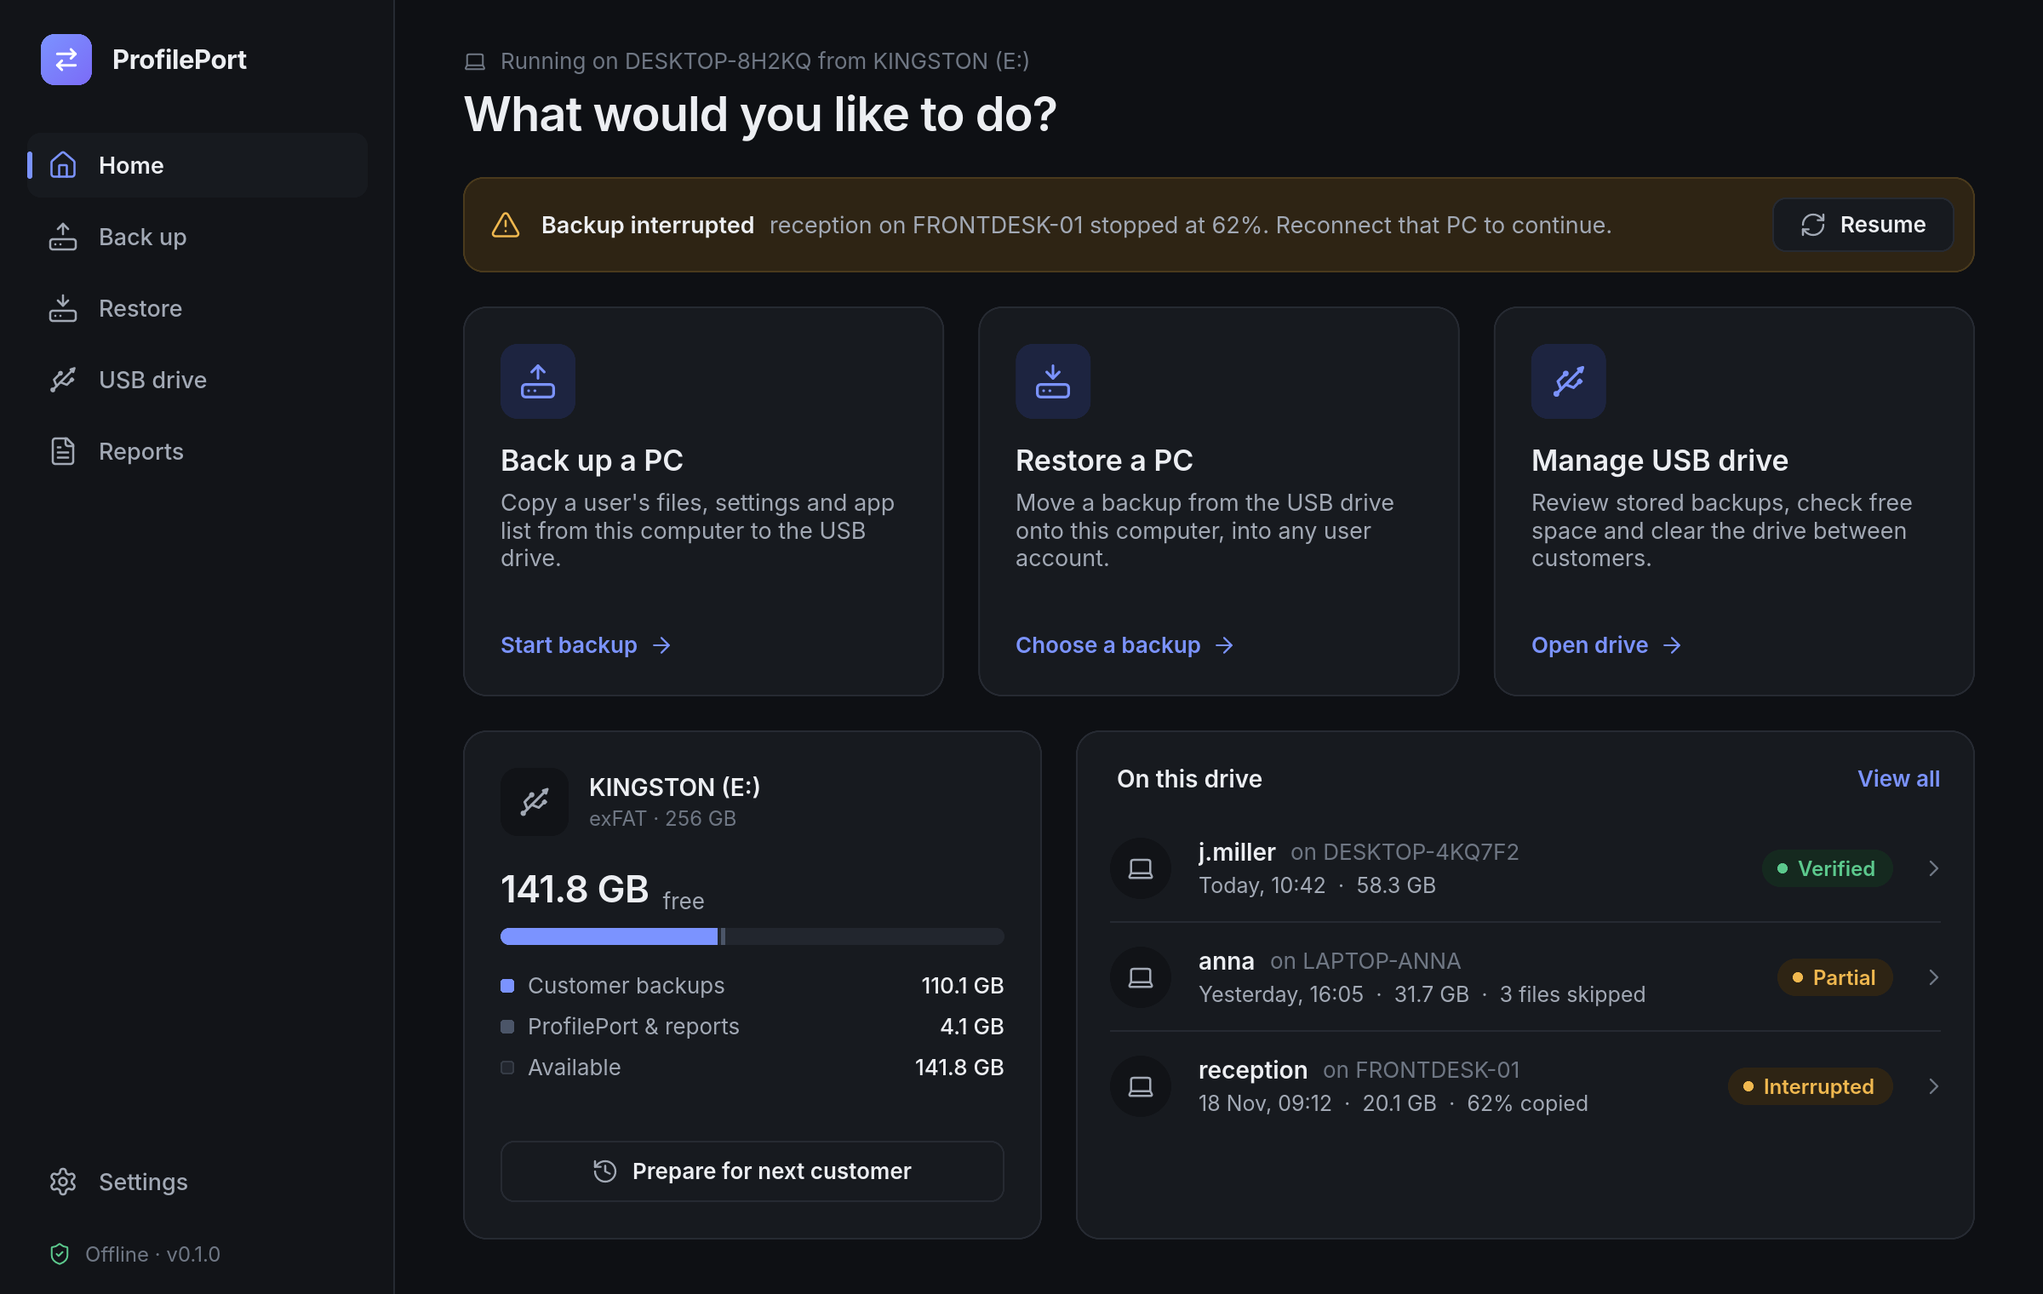
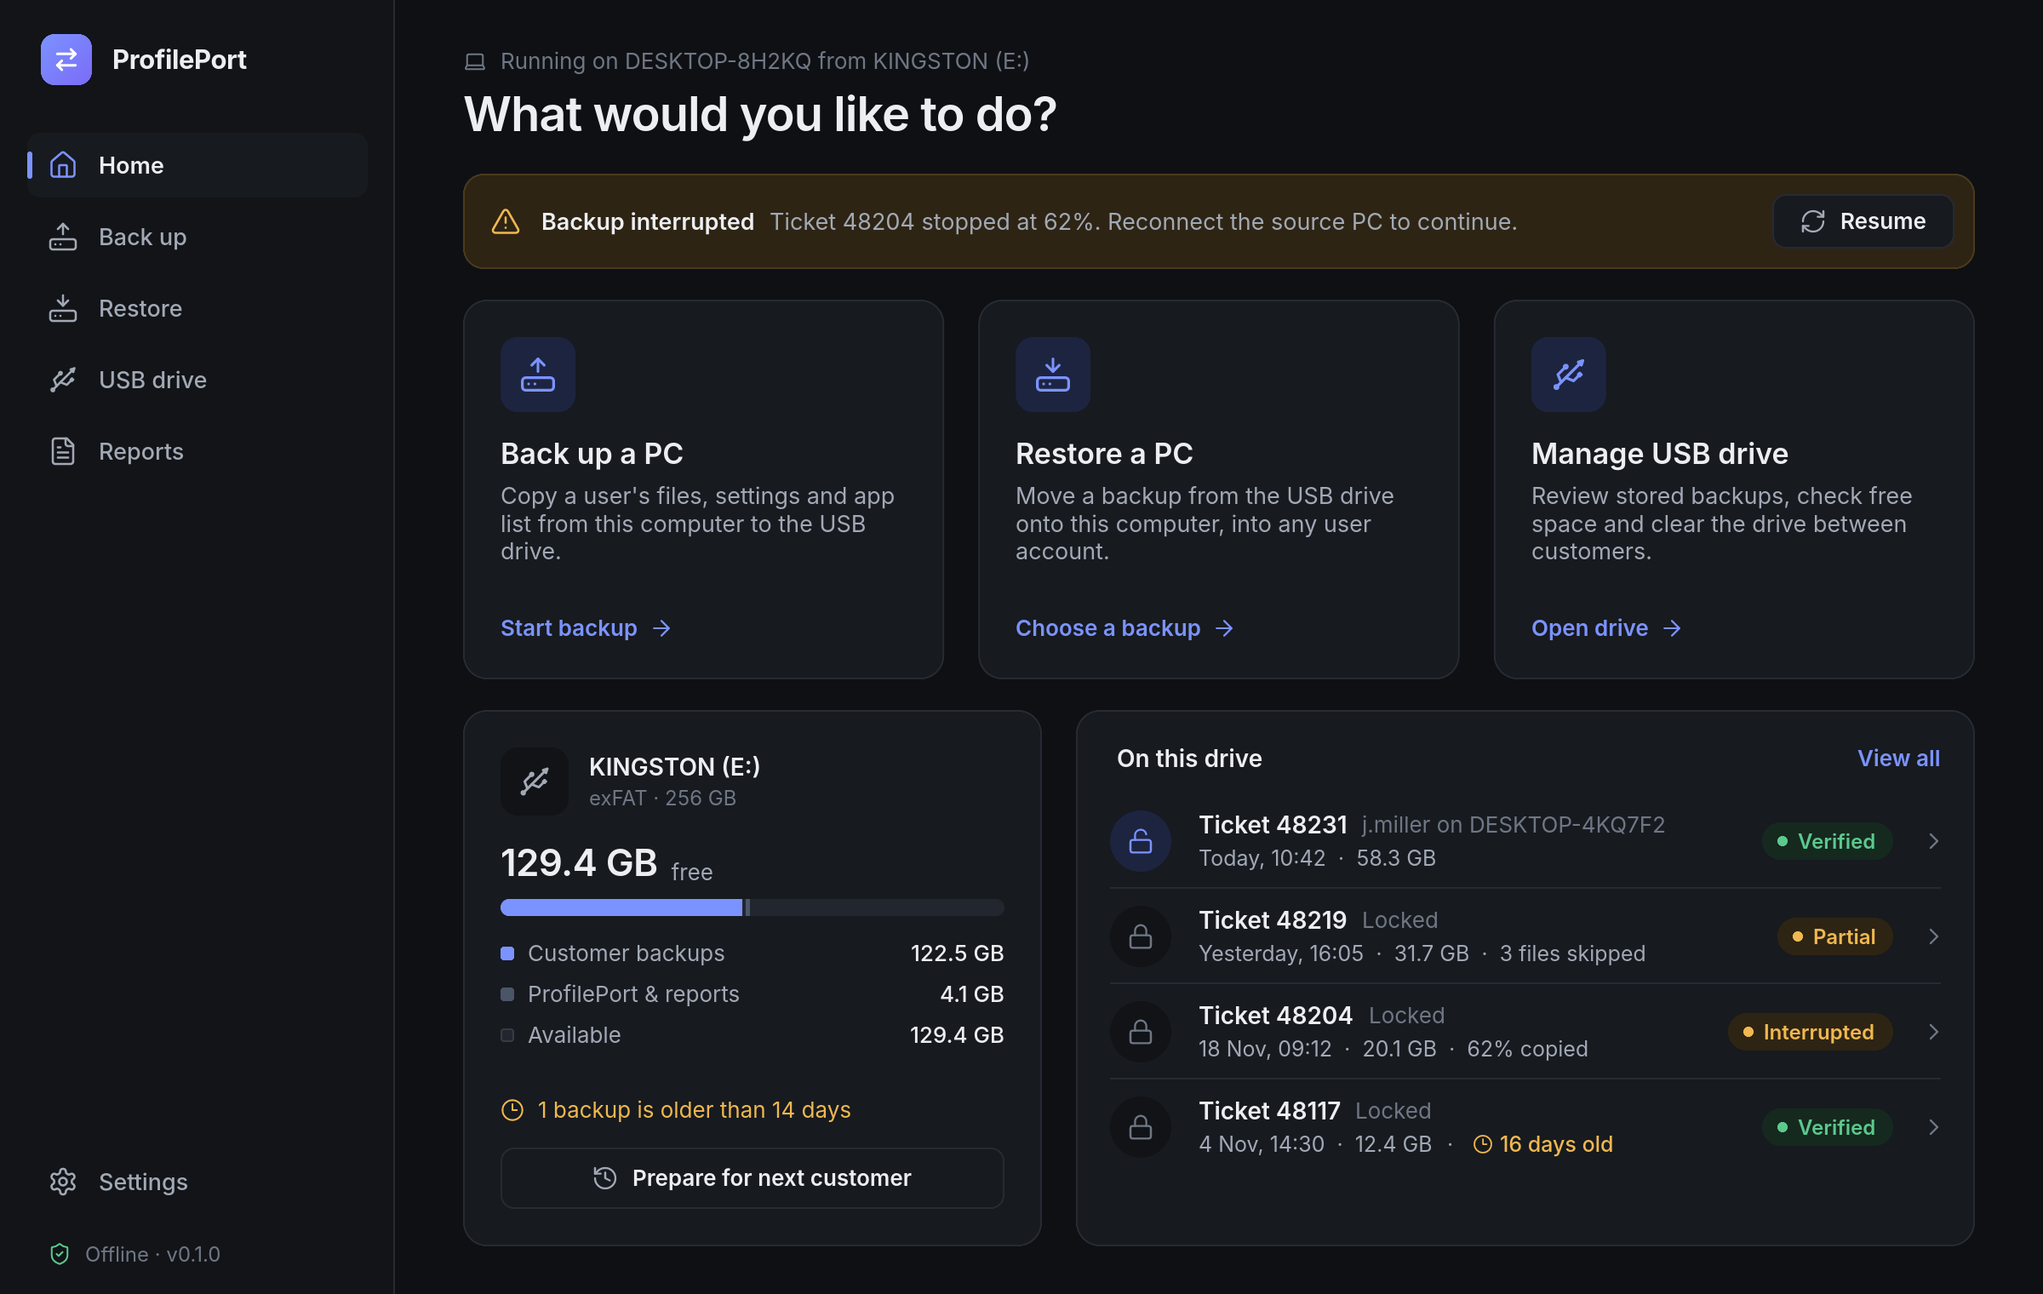
Accept ADRs; redesign dashboard backups list around ticket numbers
- ADR 0002 accepted: transfer code on a paper device tag (not the ticket
  system), ~50-bit grouped code with check characters, type-back
  confirmation, recovery-job safeguard, no master key in v1.
- ADRs 0003 and 0004 accepted; 0005 accepted with VSS deferred to Phase 2
  and Phase 1 avoiding locks via a separate admin sign-in.
- ADR 0001 records the Slint royalty-free licence choice.
- Dashboard: backups shown by ticket number with locked/unlocked state;
  names appear only for unlocked packages; stale-package warnings on rows
  and the drive card.

Claude-Session: https://claude.ai/code/session_01Jb7Vzuqr7JesLgjHWPisgZ

diff --git a/apps/desktop/src/main.rs b/apps/desktop/src/main.rs
@@ -20,44 +20,49 @@ fn main() -> Result<(), slint::PlatformError> {
         letter: "E:".into(),
         filesystem: "exFAT".into(),
         total: "256 GB".into(),
-        free: "141.8 GB".into(),
-        backups_fraction: 0.43,
+        free: "129.4 GB".into(),
+        backups_fraction: 0.479,
         app_fraction: 0.016,
-        backups_size: "110.1 GB".into(),
+        backups_size: "122.5 GB".into(),
         app_size: "4.1 GB".into(),
+        stale_count: 1,
+        stale_threshold: "14 days".into(),
     });
 
+    // Only the ticket's own backup is unlocked: the technician entered its
+    // transfer code. Every other package shows plaintext metadata only.
+    let backup = |ticket: &str, created: &str, size: &str, status, detail: &str| BackupEntry {
+        ticket: ticket.into(),
+        unlocked: false,
+        profile: "".into(),
+        computer: "".into(),
+        created: created.into(),
+        size: size.into(),
+        status,
+        detail: detail.into(),
+        age: "".into(),
+        stale: false,
+    };
     let backups = vec![
         BackupEntry {
+            unlocked: true,
             profile: "j.miller".into(),
             computer: "DESKTOP-4KQ7F2".into(),
-            created: "Today, 10:42".into(),
-            size: "58.3 GB".into(),
-            status: BackupStatus::Verified,
-            detail: "".into(),
+            ..backup("48231", "Today, 10:42", "58.3 GB", BackupStatus::Verified, "")
         },
+        backup("48219", "Yesterday, 16:05", "31.7 GB", BackupStatus::Partial, "3 files skipped"),
+        backup("48204", "18 Nov, 09:12", "20.1 GB", BackupStatus::Interrupted, "62% copied"),
         BackupEntry {
-            profile: "anna".into(),
-            computer: "LAPTOP-ANNA".into(),
-            created: "Yesterday, 16:05".into(),
-            size: "31.7 GB".into(),
-            status: BackupStatus::Partial,
-            detail: "3 files skipped".into(),
-        },
-        BackupEntry {
-            profile: "reception".into(),
-            computer: "FRONTDESK-01".into(),
-            created: "18 Nov, 09:12".into(),
-            size: "20.1 GB".into(),
-            status: BackupStatus::Interrupted,
-            detail: "62% copied".into(),
+            age: "16 days old".into(),
+            stale: true,
+            ..backup("48117", "4 Nov, 14:30", "12.4 GB", BackupStatus::Verified, "")
         },
     ];
     app.set_backups(Rc::new(slint::VecModel::from(backups)).into());
 
     app.set_show_notice(true);
     app.set_notice_title("Backup interrupted".into());
-    app.set_notice_message("reception on FRONTDESK-01 stopped at 62%. Reconnect that PC to continue.".into());
+    app.set_notice_message("Ticket 48204 stopped at 62%. Reconnect the source PC to continue.".into());
 
     app.window().set_size(slint::LogicalSize::new(1200.0, 760.0));
     app.run()

diff --git a/docs/decisions/0002-package-format.md b/docs/decisions/0002-package-format.md
@@ -1,6 +1,6 @@
 # 0002 — Transfer package format
 
-**Status:** Proposed — this is the most consequential open decision.
+**Status:** Accepted
 
 ## Context
 
@@ -91,21 +91,53 @@ and **specific to the job** — a store-wide PIN protects a lost drive but
 cannot erase past customers, because the PIN never changes and any surviving
 wrapped key still opens with it.
 
-**Proposed:**
+**Decision:**
 
 - Each package has a random key, wrapped (Argon2id → key-encryption key) with
-  a short **transfer code** generated at the end of export.
-- The technician writes the code on the **job ticket / work order**. It is
-  never written to the drive. Restore asks for it.
-- When the job is closed and the code is no longer retained, that customer's
-  data is unreadable even if deleted blocks are recovered. The erasure
-  guarantee therefore depends on the store's **ticket-retention policy** for
-  codes. Document this; don't hide it.
-- **Optional store master key** (kept on the store's workstation, not the
-  drive) as a second wrap, for jobs where a redo is impossible — chiefly
-  recovery from a failing drive. Off by default; enabling it means past
-  packages are only as erased as the master key is protected.
-- A lost code otherwise just means redoing the backup from the source PC.
+  a **transfer code** generated at the end of export. The code is never
+  written to the drive. Restore asks for it.
+- The technician writes the code on a **paper device tag** that stays with
+  the customer's devices (taped to the old PC or its bag), **not in the
+  ticket system**. Ticket systems retain records for years and are backed
+  up; a paper tag is discarded when the devices go back to the customer,
+  which ends the code's life without depending on any retention policy. The
+  export screen says so explicitly: "Write this on the device tag. Don't
+  enter it in the ticket system."
+- Once the tag is discarded, that customer's data is unreadable even if
+  deleted blocks are recovered from flash.
+- **No store master key in v1.** It would be a single secret that, if it
+  leaked, exposed every past customer, and it would weaken the erasure
+  promise for all jobs to protect a few. Revisit only if lost codes prove to
+  be a real problem in practice.
+- A lost code means redoing the backup from the source PC, which is usually
+  still on the bench.
+
+### Transfer code format
+
+A stolen drive can be attacked offline, so the code must resist guessing
+even though Argon2id slows each attempt. Six digits (~20 bits) is too weak.
+
+- **~50 bits of entropy:** 10 random characters from Crockford base32
+  (no 0/O, 1/I/L ambiguity), plus 2 check characters, shown in groups of
+  four: `7KQ2-M9XD-4PWH`.
+- Case-insensitive; hyphens and spaces ignored on entry.
+- The check characters catch typos before decryption is attempted, so a
+  mistyped code gives "That code isn't valid — check the device tag", not a
+  confusing decryption failure.
+- Argon2id parameters stored in `header.bin` so they can be raised in later
+  format versions.
+
+### Guarding against a lost code
+
+The real risk is a mistranscribed code while the source is about to be
+released — worst for recovery from a failing drive, where a second backup
+may be impossible. So:
+
+- Before the export screen can be closed, the technician **types the code
+  back once**. A mismatch shows the code again.
+- For packages marked as **recovery jobs**, ProfilePort never offers to
+  delete the package until the restore is verified **and** the technician
+  confirms the customer has checked their data.
 
 ## Plaintext labels
 
@@ -113,7 +145,7 @@ The encrypted manifest hides names, so the dashboard cannot show
 "j.miller on DESKTOP-4KQ7F2" without the code. Storing that in plaintext
 would put customer-identifying data on the drive.
 
-**Proposed:** packages carry a plaintext **ticket number** (entered at
+**Decision:** packages carry a plaintext **ticket number** (entered at
 export), date, size and status only. Profile and computer names appear only
 after the code is entered. Ticket numbers are how technicians already match
 jobs, and they identify no one without the store's own system.
@@ -121,16 +153,18 @@ jobs, and they identify no one without the store's own system.
 ## Lifecycle
 
 - After a **verified** restore, the final step asks: "Delete this backup from
-  the drive now?" (a prompt, not automatic deletion).
+  the drive now?" (a prompt, not automatic deletion). Recovery jobs are the
+  exception described above.
 - Packages older than a configurable age (e.g. 14 days) are flagged on the
   dashboard for cleanup.
 - "Prepare for next customer" deletes selected packages. With per-job codes
-  this honestly makes their data inaccessible once the codes are discarded.
+  this honestly makes their data inaccessible once the device tags are
+  discarded.
 
-## Decision (proposed)
+## Decision
 
-Option B with per-package keys wrapped by a transfer code recorded on the
-job ticket, from Phase 1.
+Option B with per-package keys wrapped by a transfer code recorded on a paper
+device tag, from Phase 1. No master key in v1.
 
 ## Consequences
 
@@ -140,8 +174,9 @@ job ticket, from Phase 1.
   [0003](0003-copy-engine.md).
 - The format must be versioned and documented (`docs/package-format.md`)
   before the first release, with a stand-alone extractor.
-- A lost transfer code means redoing the backup (or using the optional master
-  key). The UI must make this unmistakable before the source PC is released.
-- The dashboard's backup list is keyed by ticket number, not by user or PC
-  name (the current prototype shows names and needs updating).
-- Real-world erasure depends on the store's ticket-retention policy for codes.
+- A lost transfer code means redoing the backup. The type-back check and the
+  recovery-job safeguard keep this rare.
+- The dashboard's backup list is keyed by ticket number; profile and computer
+  names appear only for packages unlocked in the current session.
+- Staff must actually keep codes out of the ticket system. This is a store
+  procedure, and the app reminds them at the moment the code is shown.

diff --git a/docs/design/ui.md b/docs/design/ui.md
@@ -19,7 +19,12 @@ visual system and how to work on it.
    for meaning (green = verified, amber = needs attention, red = failure).
 4. **Honest wording.** "Partial — 3 files skipped", not "Done". "Verified"
    only when content was hashed and compared.
-5. **Dense enough for professionals.** Generous whitespace, but a technician
+5. **Nothing customer-identifying without the code.** The drive is shared
+   across customers ([ADR 0002](../decisions/0002-package-format.md)), so
+   lists show only plaintext package metadata — ticket number, date, size,
+   status, age. Profile and computer names appear only for packages
+   unlocked with their transfer code in the current session.
+6. **Dense enough for professionals.** Generous whitespace, but a technician
    should see drive state and recent backups without scrolling.
 
 ## Tokens
@@ -88,9 +93,12 @@ as final. Font rasterisation and DPI behaviour differ there.
 
 ## Next screens
 
-1. Profile discovery (pick a Windows installation and user).
+1. Profile discovery (pick a Windows installation and user; warn if that
+   user is signed in — see ADR 0005).
 2. Data selection with size estimates and exclusions.
 3. Transfer progress (overall + current file, speed, ETA, warnings).
-4. Verification summary (verified / partial / failed, with drill-down).
-5. Restore mapping (source folders → destination user, conflict preview).
-6. USB drive management and "Prepare for next customer".
+4. Export complete: transfer code display, "write it on the device tag",
+   and type-back confirmation (ADR 0002).
+5. Verification summary (verified / partial / failed, with drill-down).
+6. Unlock a package (enter transfer code) and restore mapping (source folders → destination user, conflict preview).
+7. USB drive management and "Prepare for next customer".

diff --git a/docs/decisions/0005-locked-files-and-registry.md b/docs/decisions/0005-locked-files-and-registry.md
@@ -1,6 +1,6 @@
-# 0005 — Locked files via VSS; user registry archived, not merged
+# 0005 — Locked files: avoid, then VSS; user registry archived, not merged
 
-**Status:** Proposed
+**Status:** Accepted — VSS deferred to Phase 2
 
 ## Context
 
@@ -15,9 +15,27 @@ The original proposal says "close applications or use an appropriate
 consistency mechanism" without naming one, and does not mention the user's
 registry settings at all, although many settings live there.
 
-## Decision (proposed)
+## Decision
 
-### Locked files: Volume Shadow Copy
+### Phase 1: avoid the locks instead of working around them
+
+In-store, the technician controls how the source PC is signed in to. If they
+sign in with a **separate administrator account** rather than as the
+customer, the customer's hive isn't loaded and their Outlook and browsers
+aren't running — so most locks never happen. Phase 1 therefore:
+
+- **Detects whether the source user is signed in** (active or disconnected
+  session) and, if so, recommends signing them out before export, with a
+  one-click "Sign out user" where permitted.
+- Warns if known applications (Outlook, browsers, Thunderbird) are running
+  under that user.
+- Reports anything still locked as **skipped (locked)** — individually, in
+  the report — never silently.
+
+### Phase 2: Volume Shadow Copy
+
+For the cases Phase 1 can't avoid (the customer must stay signed in, a
+service holds files open, background sync):
 
 - Export reads from a **VSS snapshot** of the source volume
   (`IVssBackupComponents`). This gives a crash-consistent view of every file,

diff --git a/docs/decisions/0004-privilege-model.md b/docs/decisions/0004-privilege-model.md
@@ -1,6 +1,6 @@
 # 0004 — Always run elevated
 
-**Status:** Proposed
+**Status:** Accepted
 
 ## Context
 
@@ -20,7 +20,7 @@ Elevating mid-flow (re-launching with `runas`) means splitting the app into
 two processes or restarting it, which complicates state, progress reporting
 and resume.
 
-## Decision (proposed)
+## Decision
 
 Embed an application manifest with `requestedExecutionLevel
 level="requireAdministrator"`. One UAC prompt at launch; the whole session
@@ -40,5 +40,6 @@ validated target (see the proposal's "explicit operations" principle).
 - An elevated process owning files it writes: restored files must be
   explicitly re-owned to the target user (see [0003](0003-copy-engine.md)).
 - **Code signing.** An elevated, unsigned EXE shows "Unknown publisher" in the
-  UAC prompt and is more likely to be flagged by Defender or other AV. Budget for an
-  Authenticode certificate before release.
+  UAC prompt and is more likely to be flagged by Defender or other AV. Buy an
+  Authenticode certificate before ProfilePort goes onto store drives, so the
+  UAC prompt shows a real publisher name and technicians learn to expect it.

diff --git a/docs/decisions/README.md b/docs/decisions/README.md
@@ -9,10 +9,10 @@ Status values: **Proposed** (recommended, awaiting sign-off), **Accepted**,
 | # | Decision | Status |
 |---|----------|--------|
 | [0001](0001-gui-framework.md) | GUI framework: Slint, not Tauri | Accepted |
-| [0002](0002-package-format.md) | Transfer package format: encrypted chunked store | Proposed |
-| [0003](0003-copy-engine.md) | Copy engine: native Rust, not Robocopy | Proposed |
-| [0004](0004-privilege-model.md) | Always run elevated | Proposed |
-| [0005](0005-locked-files-and-registry.md) | Locked files via VSS; user registry archived, not merged | Proposed |
+| [0002](0002-package-format.md) | Transfer package format: encrypted chunked store | Accepted |
+| [0003](0003-copy-engine.md) | Copy engine: native Rust, not Robocopy | Accepted |
+| [0004](0004-privilege-model.md) | Always run elevated | Accepted |
+| [0005](0005-locked-files-and-registry.md) | Locked files: avoid in Phase 1, VSS in Phase 2; registry archived, not merged | Accepted |
 
 The order matters: 0002 decides most of 0003, and 0003 and 0005 both depend on 0004.
 

diff --git a/README.md b/README.md
@@ -47,10 +47,10 @@ on Windows (x64 or ARM64 native; see ADR 0005 on why not 32-bit).
 | Decision | Status |
 |---|---|
 | [Slint, not Tauri](docs/decisions/0001-gui-framework.md) | Accepted |
-| [Encrypted, chunked package format](docs/decisions/0002-package-format.md) | Proposed |
-| [Native Rust copy engine, not Robocopy](docs/decisions/0003-copy-engine.md) | Proposed |
-| [Always run elevated](docs/decisions/0004-privilege-model.md) | Proposed |
-| [VSS for locked files; registry archived, not merged](docs/decisions/0005-locked-files-and-registry.md) | Proposed |
+| [Encrypted, chunked package format](docs/decisions/0002-package-format.md) | Accepted |
+| [Native Rust copy engine, not Robocopy](docs/decisions/0003-copy-engine.md) | Accepted |
+| [Always run elevated](docs/decisions/0004-privilege-model.md) | Accepted |
+| [Locked files: avoid, then VSS; registry archived, not merged](docs/decisions/0005-locked-files-and-registry.md) | Accepted |
 
 ## Suggested build order
 

diff --git a/docs/decisions/0001-gui-framework.md b/docs/decisions/0001-gui-framework.md
@@ -47,8 +47,11 @@ sounds. The stronger reasons are:
   [`docs/design/ui.md`](../design/ui.md)).
 - Screen-reader support on Windows (via AccessKit) is less mature than a
   browser engine's. Test with Narrator early.
-- **Licensing:** Slint is available under GPLv3, a royalty-free licence (which
-  permits proprietary desktop apps but requires attribution), or a commercial
-  licence. Choose before the first public release.
+- **Licensing:** Slint is available under GPLv3, a royalty-free licence, or a
+  commercial licence. ProfilePort uses the **royalty-free licence**: it
+  permits closed-source desktop apps at no cost, provided we show
+  attribution (an "About" screen entry with Slint's badge/notice). This
+  fits an in-store tool. **Revisit before selling or distributing
+  ProfilePort to other businesses.**
 - The engine must stay GUI-independent (a requirement anyway) so a CLI and,
   later, a WinPE front-end can share it.

diff --git a/docs/decisions/0003-copy-engine.md b/docs/decisions/0003-copy-engine.md
@@ -1,6 +1,6 @@
 # 0003 — Copy engine: native Rust, not Robocopy
 
-**Status:** Proposed (largely follows from [0002](0002-package-format.md))
+**Status:** Accepted (largely follows from [0002](0002-package-format.md))
 
 ## Context
 
@@ -15,7 +15,7 @@ all three:
 Robocopy's genuine strengths — backup-privilege reads, long paths, retries —
 are all available directly from Win32.
 
-## Decision (proposed)
+## Decision
 
 A native Rust engine, using plain OS threads (no Tokio; Windows file I/O here
 is blocking anyway) and a channel to report progress to the UI.
